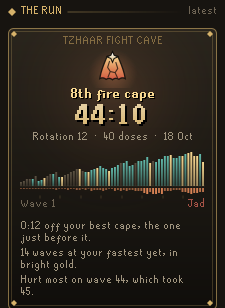
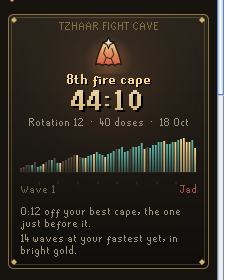
Group the settings, say each in one sentence, and rewrite the README for the Hub
Settings now sit in three sections (Where to stand, During a wave, Planning and
chat), each described in one sentence, with the ones that never show on the Jad wave
saying so. "Chat notes" is now "Notes in chat", like the suite's other chat options.
The README is laid out by when you use it (in the cave, before you go in, after a
run), with fresh screenshots of each page, the settings that matter, what it reads
from Codex Bank Steward and how a damaged save is handled. The plugin description
mentions runs and splits and that it steps back on the Jad wave.

diff --git a/src/main/java/com/codex/fightcaves/CodexFightCavesPilotConfig.java b/src/main/java/com/codex/fightcaves/CodexFightCavesPilotConfig.java
@@ -3,6 +3,7 @@ package com.codex.fightcaves;
 import net.runelite.client.config.Config;
 import net.runelite.client.config.ConfigGroup;
 import net.runelite.client.config.ConfigItem;
+import net.runelite.client.config.ConfigSection;
 import net.runelite.client.config.Range;
 
 @ConfigGroup(CodexFightCavesPilotConfig.GROUP)
@@ -10,10 +11,20 @@ public interface CodexFightCavesPilotConfig extends Config
 {
 	String GROUP = "codexfightcavespilot";
 
+	@ConfigSection(name = "Where to stand", description = "The gilt tile, and the next wave played out before it spawns", position = 0)
+	String STAND = "stand";
+
+	@ConfigSection(name = "During a wave", description = "What the pilot marks and says while a wave is on; none of it shows on the Jad wave", position = 1)
+	String WAVE = "wave";
+
+	@ConfigSection(name = "Planning and chat", description = "Prayer pacing, the road to Jad and the chat box", position = 2)
+	String PLAN = "plan";
+
 	@ConfigItem(
 		keyName = "standTile",
 		name = "Mark where to stand",
-		description = "Gild the tile where the fewest creatures can hit you, keeping rangers and magers stuck behind pillars where possible",
+		description = "Gild the tile where the fewest creatures can hit you, with rangers and magers kept behind pillars where it can be done",
+		section = STAND,
 		position = 0
 	)
 	default boolean standTile()
@@ -24,7 +35,8 @@ public interface CodexFightCavesPilotConfig extends Config
 	@ConfigItem(
 		keyName = "followFight",
 		name = "Follow the fight",
-		description = "Keep re-working where to stand from where the creatures really are during a wave, not only from where they spawn",
+		description = "Keep working out where to stand from where the creatures really are during a wave, not only from where they spawned",
+		section = STAND,
 		position = 1
 	)
 	default boolean followFight()
@@ -35,7 +47,8 @@ public interface CodexFightCavesPilotConfig extends Config
 	@ConfigItem(
 		keyName = "nextSpawns",
 		name = "Show the next wave",
-		description = "Outline where the next wave's creatures will appear, and where to be standing when they do, as a wave draws to a close",
+		description = "As a wave draws to a close, outline where the next one appears and where to be standing when it does",
+		section = STAND,
 		position = 2
 	)
 	default boolean nextSpawns()
@@ -46,7 +59,8 @@ public interface CodexFightCavesPilotConfig extends Config
 	@ConfigItem(
 		keyName = "rehearse",
 		name = "Rehearse the next wave",
-		description = "As a wave draws to a close, play the next one out before it spawns: each creature's walk to the tile you will stand on, drawn on the floor and replayed on the panel's map of the cave",
+		description = "As a wave draws to a close, play the next one out on the floor and on the panel's map: each creature's walk to the tile you will stand on",
+		section = STAND,
 		position = 3
 	)
 	default boolean rehearse()
@@ -55,21 +69,11 @@ public interface CodexFightCavesPilotConfig extends Config
 	}
 
 	@ConfigItem(
-		keyName = "outlook",
-		name = "Road to Jad",
-		description = "Rate every wave of your rotation before it comes: clean when every ranger and mager sticks behind a pillar, pray when one style reaches you, split when two styles reach you from every tile in reach. Saved for the Waves page",
-		position = 4
-	)
-	default boolean outlook()
-	{
-		return true;
-	}
-
-	@ConfigItem(
 		keyName = "stuckTags",
 		name = "Tag stuck creatures",
-		description = "Label rangers and magers that are stuck behind a pillar and cannot hit you where you stand. Not shown on the Jad wave",
-		position = 5
+		description = "Label rangers and magers stuck behind a pillar that cannot hit you where you stand, never on the Jad wave",
+		section = WAVE,
+		position = 0
 	)
 	default boolean stuckTags()
 	{
@@ -79,8 +83,9 @@ public interface CodexFightCavesPilotConfig extends Config
 	@ConfigItem(
 		keyName = "killOrder",
 		name = "Kill order",
-		description = "Number the creatures in the order to kill them: whatever hits you hardest for its health first, then anything stuck where you can hit it. Not shown on the Jad wave",
-		position = 6
+		description = "Number the creatures in the order to kill them, hardest hitter for its health first, never on the Jad wave",
+		section = WAVE,
+		position = 1
 	)
 	default boolean killOrder()
 	{
@@ -90,8 +95,9 @@ public interface CodexFightCavesPilotConfig extends Config
 	@ConfigItem(
 		keyName = "prayerCall",
 		name = "Prayer to use",
-		description = "Name the protection prayer that blocks the most of what can hit you where you stand. Not shown on the Jad wave",
-		position = 7
+		description = "Name the protection prayer that blocks most of what can hit you where you stand, never on the Jad wave",
+		section = WAVE,
+		position = 2
 	)
 	default boolean prayerCall()
 	{
@@ -101,8 +107,9 @@ public interface CodexFightCavesPilotConfig extends Config
 	@ConfigItem(
 		keyName = "eatWarning",
 		name = "Eat warning",
-		description = "Say so on the plaque and the panel when what can hit you at once, past your protection prayer, could take all your hitpoints. Not shown on the Jad wave",
-		position = 8
+		description = "Warn on the plaque and the panel when what can hit you at once, past your prayer, could take all your hitpoints, never on the Jad wave",
+		section = WAVE,
+		position = 3
 	)
 	default boolean eatWarning()
 	{
@@ -112,8 +119,9 @@ public interface CodexFightCavesPilotConfig extends Config
 	@ConfigItem(
 		keyName = "plaque",
 		name = "Pilot plaque",
-		description = "Show a small plaque in the game view with the wave, the rotation and how your prayer is holding up",
-		position = 9
+		description = "Show a small plaque in the game view with the wave, the rotation and how your prayer is holding up, never on the Jad wave",
+		section = WAVE,
+		position = 4
 	)
 	default boolean plaque()
 	{
@@ -123,8 +131,9 @@ public interface CodexFightCavesPilotConfig extends Config
 	@ConfigItem(
 		keyName = "jadDoses",
 		name = "Doses kept for Jad",
-		description = "Prayer doses to hold back for the Jad wave when pacing the rest of the run",
-		position = 10
+		description = "Prayer doses to hold back for the Jad wave when pacing your prayer through the waves before it",
+		section = PLAN,
+		position = 0
 	)
 	@Range(min = 0, max = 28)
 	default int jadDoses()
@@ -133,10 +142,23 @@ public interface CodexFightCavesPilotConfig extends Config
 	}
 
 	@ConfigItem(
+		keyName = "outlook",
+		name = "Road to Jad",
+		description = "Rate each wave of your rotation before it comes (clean, pray or split) and keep the ratings for the Waves page",
+		section = PLAN,
+		position = 1
+	)
+	default boolean outlook()
+	{
+		return true;
+	}
+
+	@ConfigItem(
 		keyName = "chat",
-		name = "Chat notes",
-		description = "Say in the chat box when the rotation is known, when your prayer falls behind pace, and why a run ended",
-		position = 11
+		name = "Notes in chat",
+		description = "Say in the chat box when your rotation is known, when your prayer falls behind pace and why a run ended",
+		section = PLAN,
+		position = 2
 	)
 	default boolean chat()
 	{

diff --git a/README.md b/README.md
@@ -1,78 +1,90 @@
 # Codex Fight Caves Pilot
 
-**Your Fight Cave rotation from the first spawns, where to stand every wave, and prayer paced against the waves left.** Walk in and fight as normal: the pilot watches where the first creatures appear and works out which of the cave's 15 rotations you are on, with no buttons to press. From then on it gilds the tile where rangers and magers get stuck behind a pillar, outlines where the next wave will appear as the current one ends, and keeps your prayer doses measured against what the rest of the run will take.
+**Your Fight Cave rotation read from the first spawns, where to stand every wave, and your prayer paced against the waves left.** Walk in and fight as normal: there are no buttons to press. The pilot works out which of the cave's 15 rotations you are on, gilds the tile where rangers and magers get stuck behind a pillar, and keeps your prayer doses measured against what the rest of the run will take. On the Jad wave it steps back completely.
 
-It is part of the **Codex** suite, alongside [Codex Navigator](https://github.com/Nubles/OSRS-Codex-Navigator), [Codex Guardian](https://github.com/Nubles/OSRS-Codex-Guardian), [Codex Gear Roadmap](https://github.com/Nubles/OSRS-Codex-Gear-Roadmap), [Codex Session Chronicle](https://github.com/Nubles/OSRS-Codex-Session-Chronicle), [Codex Ledger](https://github.com/Nubles/OSRS-Codex-Ledger) and [Codex Quartermaster](https://github.com/Nubles/OSRS-Codex-Quartermaster), and shares their look: warm ink, aged gold and the game's own fonts.
-
-<p align="center">
-  <img src="docs/screenshots/pilot.png" width="225" alt="Pilot">
-  <img src="docs/screenshots/waves.png" width="225" alt="Waves">
-  <img src="docs/screenshots/records.png" width="225" alt="Records">
-</p>
-
-## What it does
-
-- **Rotation, read for you.** Wave 1 narrows the 15 rotations to three and wave 2 almost always settles it; rotations 7 and 8 look the same until wave 4, and the panel says so. No clicking spawn buttons or pressing "next" every wave. Rejoin a run after logging out and it picks up where it was.
-- **Where to stand.** Creatures in the cave walk straight at you with no path finding, which is why pillars work. The pilot plays that walk out for every creature and every tile you could reach, using the cave's real collision and line of sight, and gilds the tile where the fewest can hit you: rangers and magers stuck out of sight, melee creatures stuck where you can still shoot them, and the rest arriving one at a time rather than together. It also avoids tiles where two attack styles reach you at once, since one prayer cannot block both, tiles where a ranger or mager ends up beside you and switches to melee, and letting a Tz-Kek die on top of you, where its two halves start on you at once. The panel lists what each creature will do if you stand there ("Mager: stuck, cannot see you", "Melee: reaches you in 6 ticks").
-- **Kill order.** A numbered gilt seal over each creature says what to kill first. Whatever hits you comes first, ordered by how much damage it deals for every hitpoint it takes to kill, so the weak creature hitting hard dies before the strong one hitting softly. Your protection prayer counts: what it blocks can wait. Bats come early because they drain prayer even through it, a Yt-MejKot jumps the queue once anything else is below half health because it heals them, and a Tz-Kek is weighed with the two halves it splits into. After that come creatures stuck where you can hit them, deadliest first. Nothing is shown on the Jad wave.
-- **The prayer to use.** From where you stand, the pilot works out which protection prayer blocks the most of what can hit you in the next couple of ticks, and shows it on the plaque and in the panel, with a nudge when it is not on. A ranger or mager beside you counts as melee, since that is how they hit up close. When two styles are hitting you at once it says so, because no prayer covers both and the gilt tile is where to lose one. Nothing is shown on the Jad wave.
-- **Your weapon's reach.** The pilot reads what you wield, so a blowpipe, a crossbow, a longbow and a staff each get the tiles they can really hit a stuck creature from.
-- **Follow the fight.** During a wave the tile is re-worked from where the creatures really are, and only moves when a new tile is clearly safer, so it does not flicker.
-- **The next wave.** As a wave draws to a close, dashed outlines on the floor show where the next wave's creatures will appear, coloured by the prayer that answers them, and a teal tile shows where to be standing when they do.
-- **Wave rehearsal.** As a wave draws to a close, the pilot plays the next one out before it spawns. On the floor, a dotted trail runs from each spawn point to where that creature will stop, ending in a teal ring where it sticks or an ember one where it reaches you, with how many ticks it takes. On the panel the same wave plays at the game's pace on a true map of the cave, its floor and pillars read from the game's own collision map, looping with a pause on how it ends, under one line such as "First hit on tick 6 (3.6s), from the melee. 1 of 2 stick."
-- **Why that tile.** When the gilt tile is clearly safer than where you are, the panel sets the two side by side, creature by creature ("Mager: hits now" against "stuck"), with one sentence on what changes: fewer creatures able to hit you, one prayer covering what is left instead of two styles at once, or the first hit landing later. It works for the fight on now and for where to be when the next wave spawns.
-- **Road to Jad.** Once the rotation is known, every wave left is planned the way the pilot plans the next one, from the tile the wave before leaves you on, and rated on a tablet of 63 stones: teal where every ranger and mager sticks behind a pillar, gold where one style reaches you wherever you stand (one prayer covers it), ember where two styles reach you at once and one prayer cannot block both. A line names the next hard wave, how many waves away it is and which creatures make it hard. The ratings are saved, so the Waves page shows them for any rotation you have fought, and its stones can be clicked to chart a wave.
-- **Eat warning.** When what can hit you in the next couple of ticks, past the protection prayer you have up, adds up to your hitpoints or more, the plaque shows "Eat: 26 can land" in blood and the panel says "Eat now". Only what your prayer lets through counts, so a mager you are praying against never sets it off. Not shown on the Jad wave.
-- **Stuck tags.** A small "Stuck" tag floats over any ranger or mager that cannot hit you where you stand. Not shown on the Jad wave.
-- **Prayer pacing.** The cave's waves follow a fixed ladder, so what is left of a run is known exactly. The pilot learns how much prayer you spend per hitpoint of wave on the waves that need protection prayers, and turns that into doses: how many you carry, how many the rest of the run takes, how many you have spare, and the level to sip at so no dose overflows. Doses for Jad are held back (four by default). If you fall behind, a line in the chat box says by how much. On the Jad wave itself the gauge and the plaque are put away.
-- **Waves.** Every wave of every rotation, to study before you go in: pick a rotation, click any wave to see it on the cave chart with the wave after it outlined.
-- **Where it hurts.** Every hit you take is filed under the wave it landed on. Records shows the damage you take on an average wave in each stretch of seven, with the stretch that hurts most lit, a gold tick for the run you picked, and that run's worst waves ("Hurt most on waves 46 (45), 59 (44) and 53 (42). Wave 59 took 44 before the fall.").
-- **Ready check.** Away from the cave, a short check of what you bring: whether your Prayer level gives all three protection prayers (and which creatures hit through if not), how far your weapon reaches, whether a bow or crossbow has ammunition in the quiver (a blowpipe or crystal bow needs none), how much food you carry, and whether you carry any prayer potions at all.
-- **Runs in the bank.** From your last look at the bank, or [Codex Bank Steward](https://github.com/Nubles/OSRS-Codex-Bank-Steward)'s shared snapshot if that is newer, the pilot counts your prayer potions, super restores and sanfew serums and says how many whole runs they cover at your rate, and how old the count is.
-- **Supply check.** At the cave mouth the pilot sets the doses you carry against what a whole run takes at your rate, Jad's share included, and says whether that is enough, how many are spare, or how many more to bring.
-- **Why a run fell.** When a run ends before Jad, its last ten seconds are read for the likeliest cause, and Records and the cave mouth say it in a sentence with your hitpoints drawn falling: prayer ran out (with how many doses were still in your pack), two attack styles reached you at once, the wrong prayer was up, no prayer was up, or you were simply worn down, with what did it. It is a look back after the run, never a call during a wave, and a fall to Jad is not reviewed.
-- **Your pace to Jad.** Your usual time for each wave (the middle of every time you have cleared it) adds up to when a run reaches Jad: "At your usual pace, Jad at about 41:10 on the run clock" during a run, and how long a whole run takes you at the cave mouth. It waits until every wave still to come has been cleared at least twice.
-- **Run scroll.** Every finished run is kept as a scroll on the Records page and at the cave mouth: which fire cape it was ("8th fire cape") or the wave it fell on, its time in large gilt figures, and the whole run as a skyline of 63 waves, each as tall as the wave took. A wave lit bright gold was your fastest yet, teal came within a tenth of it, and ember hanging below the floor is the damage each wave cost. Under it, a line or two on what made the run: a new best cape and by how much, how it compared with the cape before it, how many waves were your fastest yet, and the wave that hurt most. Hover a wave for its time against your best before it. Each wave is weighed only against the runs that came before, so a run keeps the story it had on the day.
-- **Your record on each rotation.** As soon as the rotation is read, its card says how your runs on it have gone ("Your runs on it: 3 capes from 4, best 43:58. Wave 46 ended 2 of them."), and the Waves page says the same for any rotation you study.
-- **Form.** Your last ten runs as a row of badges on Records, the way a league table shows a team's last games: a gilt cape, the wave a run fell on in red, or the wave you walked out on in grey, with a gilt line under capes in a row. One line sets those runs against every run you have made: "Last 10: 7 capes (70%), against 35% over all 20 runs. 4 in a row."
-- **Records.** Your cape rate, runs, usual cape time (the middle of your timed capes) and furthest wave, where your runs end in stretches of seven waves, and recent runs with rotation, time and doses drunk.
-- **Splits.** Every run is timed wave by wave and read the way speedrunners read a run. Records cuts it into nine stretches of seven waves, with your best cape's time, your best ever for that stretch (gilt when the run matched it) and how the run did against the cape, green when ahead. Click any recent run to set its splits against the cape instead of the latest. Adding up your best of every wave gives the time you have already proven you can do, and the panel says how far under your best cape that is and which stretch holds the most to win back. During a run, the last three waves sit against the same waves of your best cape, and the run clock against the cape at the same wave.
-- **Plaque.** A slim plaque in the game view with the wave, the rotation and your doses against pace.
+It is part of the **Codex** suite of RuneLite plugins and shares their look: warm ink, aged gold and the game's own fonts.
 
 <p align="center">
-  <img src="docs/screenshots/pilot-next.png" width="225" alt="Planning the next wave">
-  <img src="docs/screenshots/reading.png" width="225" alt="Reading the rotation">
-  <img src="docs/screenshots/outside.png" width="225" alt="At the cave mouth">
+  <img src="docs/screenshots/pilot.png" width="225" alt="The Pilot page during wave 37">
+  <img src="docs/screenshots/waves.png" width="225" alt="The Waves page">
+  <img src="docs/screenshots/records.png" width="225" alt="The Records page">
 </p>
+
+## In the cave
+
+- **Rotation, read for you.** Wave 1 narrows the 15 rotations to three and wave 2 almost always settles it. Rotations 7 and 8 look the same until wave 4, and the panel says so. Log out mid-run and it picks up where it was when you log back in.
+- **Where to stand.** Cave creatures walk straight at you with no path finding, which is why pillars work. The pilot plays that walk out for every creature and every tile you could reach, using the cave's real collision and line of sight, and gilds the tile where the fewest can hit you. It avoids tiles where two attack styles reach you at once, where a ranger or mager ends up beside you and switches to melee, and where a Tz-Kek would split on top of you. The panel lists what each creature will do if you stand there ("Mager: stuck, cannot see you").
+- **Your weapon's reach.** It reads what you wield, so a blowpipe, a crossbow, a longbow and a staff each get the tiles they can really hit a stuck creature from.
+- **Kill order.** A numbered seal over each creature: whatever hits you hardest for the health it takes to kill comes first, then creatures stuck where you can hit them. Your protection prayer counts, bats come early because they drain prayer through it, and a Yt-MejKot jumps the queue once something it can heal is hurt.
+- **The prayer to use.** The protection prayer that blocks the most of what can hit you from where you stand, with a nudge when it is not on. When two styles hit you at once it says so, since no prayer covers both.
+- **Eat warning.** When what can land on you in the next couple of ticks, past the prayer you have up, adds up to your hitpoints, the plaque shows "Eat: 26 can land".
+- **The next wave, rehearsed.** As a wave draws to a close, outlines on the floor show where the next wave appears and a teal tile shows where to be. The panel plays that wave out on a true map of the cave, each creature walking to where it will stop, under a line such as "First hit on tick 6 (3.6s), from the melee. 1 of 2 stick."
+- **Why that tile.** When the gilt tile is clearly safer than where you are, the panel sets the two side by side, creature by creature, with one sentence on what changes.
+- **Prayer pacing.** The waves follow a fixed ladder, so what is left of a run is known exactly. The pilot learns how much prayer you spend per hitpoint of wave and turns it into doses: what you carry, what the rest of the run takes, how many are spare and the level to sip at. Doses for Jad are held back (four by default).
+- **Splits.** The run clock against your best cape at the same wave, and your last three waves against the same waves of that cape.
+- **Plaque.** A slim plaque in the game view with the wave, the rotation, your doses against pace and the prayer to use.
+
 <p align="center">
   <img src="docs/screenshots/rehearsal.png" width="225" alt="Rehearsing the next wave">
   <img src="docs/screenshots/compare.png" width="225" alt="Where you are against the gilt tile">
+  <img src="docs/screenshots/plaque.png" alt="The plaque">
+</p>
+
+## Before you go in
+
+- **Waves.** Every wave of every rotation to study: pick a rotation, click any wave to see it on the cave chart with the wave after it outlined.
+- **Road to Jad.** Once you have fought a rotation, each of its waves is rated on a tablet of 63 stones: teal where every ranger and mager sticks behind a pillar, gold where one prayer covers what reaches you, ember where two styles reach you from every tile. A line names the next hard wave and why.
+- **Ready check.** Whether your Prayer level gives all three protection prayers, how far your weapon reaches, whether a bow or crossbow has ammunition, how much food you carry and whether you carry prayer potions.
+- **Supply check.** The doses you carry against a whole run at your rate, Jad's share included: enough, how many spare, or how many more to bring.
+- **Runs in the bank.** How many whole runs the prayer potions, super restores and sanfew serums in your bank cover, from your last look at the bank (or Codex Bank Steward's snapshot when that is newer).
+- **Your pace to Jad.** Your usual time for each wave adds up to when a run reaches Jad, once every wave has been cleared at least twice.
+
+<p align="center">
+  <img src="docs/screenshots/outside.png" width="225" alt="At the cave mouth">
   <img src="docs/screenshots/road.png" width="225" alt="The road to Jad">
+  <img src="docs/screenshots/supply.png" width="225" alt="The supply check">
 </p>
+
+## After a run
+
+- **Run scroll.** Every finished run is kept as a scroll: which fire cape it was or the wave it fell on, its time, and the whole run as a skyline of 63 waves, gold where a wave was your fastest yet, with the damage each wave cost hanging below. A line or two says what made the run.
+- **Why a run fell.** When a run ends before Jad, its last ten seconds are read for the likeliest cause (prayer ran out, two styles at once, the wrong prayer, no prayer, or worn down) and said in a sentence beside your hitpoints falling. A fall to Jad is not reviewed.
+- **Records.** Your cape rate, runs, usual cape time and furthest wave; your form over the last ten runs; how your runs on each rotation have gone; where your runs end and where they hurt, in stretches of seven waves; and every run's splits against your best cape, with the time your best waves add up to.
+
 <p align="center">
-  <img src="docs/screenshots/hurt.png" width="225" alt="Where it hurts">
-  <img src="docs/screenshots/supply.png" width="225" alt="Supply check at the cave mouth">
   <img src="docs/screenshots/scroll.png" width="225" alt="A run kept as a scroll">
-</p>
-<p align="center">
-  <img src="docs/screenshots/plaque.png" alt="Plaque">
+  <img src="docs/screenshots/hurt.png" width="225" alt="Where it hurts">
 </p>
 
-## How it reads the cave
+## Settings that matter
 
-The cave's five spawn points (north-west, centre, south-west, south and south-east) start on their known tiles, so the very first wave is placed exactly. Each wave read cleanly against a known rotation nudges its spawn points to the tiles creatures really used, and records which creature stood where, so a spawn the game ever moves by a tile or two still lines up. A rotation is never ruled out for good: one misread spawn cannot leave it without an answer, and the panel says when a wave disagreed.
+Settings come in three groups. Every option is on by default.
 
-Spawn tiles are also learned per size of creature, since a mager's five-tile body may not sit on the same corner tile as a bat's at the same spawn point.
+- **Where to stand:** *Mark where to stand* (the gilt tile), *Follow the fight* (re-work the tile from where creatures really are), *Show the next wave* and *Rehearse the next wave*.
+- **During a wave:** *Tag stuck creatures*, *Kill order*, *Prayer to use*, *Eat warning* and *Pilot plaque*. None of these shows on the Jad wave.
+- **Planning and chat:** *Doses kept for Jad* (how many prayer doses pacing holds back for him, 4 by default), *Road to Jad* and *Notes in chat* (rotation known, prayer behind pace, why a run ended).
 
-A single odd tick never ends a run: you only count as having left the cave after two ticks outside in a row, a tick on which your own tile cannot be read yet (just after logging in) says nothing, and a run left open is only closed after a few ticks seen outside. A run the pilot did not see from wave 1 (turned on part way, or carried over from another computer) is still followed and filed, but its time is not counted as a record and its earlier waves are left untimed, so splits always line up with their waves. Logging back in mid-run restarts that wave's clock, as the game restarts the wave. A wave call or the first spawns that arrive on the very tick you are moved in, before your new tile can be read, are held for a few ticks and played once you are seen inside, so wave 1 is never lost to the order the game sends things in. Closing the client saves the logbook first. Killing Jad moves you out of the cave, so the pilot waits a few ticks for the kill count before calling it a walk-out.
+## Works with other Codex plugins
 
-The wave ladder (which creatures each wave holds) is worked out from the cave's own rule rather than typed in. The rotation table lists the spawn points for every wave of every rotation as players number them.
+- **[Codex Bank Steward](https://github.com/Nubles/OSRS-Codex-Bank-Steward):** reads its shared bank snapshot (`bankV1`) to count your prayer doses before you have opened the bank with the pilot on. Read only, never written. Without Bank Steward the pilot counts the bank itself the next time you open it.
+
+Nothing else is needed: every feature works with only this plugin installed.
+
+## Your data
+
+Your runs, prayer rate, learned spawn tiles and road ratings are saved in your RuneLite profile, per account, and stay on your computer. The pilot keeps your last 60 runs and always your best cape. A damaged or hand-edited save is mended when it is read: anything that cannot be read is left out a field or a run at a time, so the rest of your records survive.
 
 ## Rules posture
 
-Codex Fight Caves Pilot only reads what the game already shows you: where creatures appear, the cave's collision map, your prayer and your inventory. It does not click, change menus, or send anything over the network.
+Codex Fight Caves Pilot only reads what the game already shows you: where creatures appear, the cave's collision map, your prayer, your equipment and your inventory. It does not click, change menus, or send anything over the network.
 
-It gives no help with TzTok-Jad's attacks. RuneLite removed its Jad helper because it took the challenge out of the fight, so on wave 63 the pilot steps back entirely: no plaque, no tile, no prayer to use, no prayer pacing, no eat warning, no kill order, no stuck tags, no splits and no chat lines. Every page of the panel, the wave charts included, shows one card saying it has stepped back, and a fall to Jad gets no review. Everything it does offer, from wave spawn charts to safespot tiles, is the same kind of help the community's rotation guides and RuneLite's own Inferno plugin give.
+It gives no help with TzTok-Jad's attacks. RuneLite removed its Jad helper because it took the challenge out of the fight, so on wave 63 the pilot steps back entirely: no plaque, no tile, no prayer to use, no prayer pacing, no eat warning, no kill order, no stuck tags, no splits and no chat lines, and no outline or rehearsal of his wave as wave 62 ends. Every page of the panel shows one card saying it has stepped back. Everything it does offer, from wave charts to safespot tiles, is the kind of help the community's rotation guides and RuneLite's own Inferno plugin give.
+
+## How it reads the cave
+
+The cave's five spawn points start on their known tiles, so the first wave is placed exactly. Each wave read cleanly nudges its spawn points to the tiles creatures really used, per size of creature, so a spawn the game moves by a tile still lines up. A rotation is never ruled out for good, so one misread spawn cannot leave it without an answer.
+
+A single odd tick never ends a run: you only count as having left after two ticks outside in a row. A run the pilot did not see from wave 1 is still followed and filed, but its time is not a record. Logging back in mid-run restarts that wave's clock, as the game does. Closing the client saves the logbook first.
 
 ## Development
 
@@ -81,7 +93,7 @@ It gives no help with TzTok-Jad's attacks. RuneLite removed its Jad helper becau
 ./gradlew run     # launch RuneLite with the plugin loaded
 ```
 
-The rotation tracker, wave ladder, collision and line of sight rules, stand planner, wave rehearsal, road to Jad, damage log, tile comparison, splits, kill order, prayer call, weapon reach and prayer pacer (`core/`) are plain Java with unit tests; the panel and overlays are in `ui/` and `overlay/`. The step and line of sight rules are ported from RuneLite's `WorldArea`.
+The rotation tracker, wave ladder, collision and line of sight rules, stand planner, rehearsal, road to Jad, splits, kill order, prayer call, weapon reach and prayer pacer (`core/`) are plain Java with unit tests; the panel and overlays are in `ui/` and `overlay/`. The step and line of sight rules are ported from RuneLite's `WorldArea`.
 
 ## Licence
 
